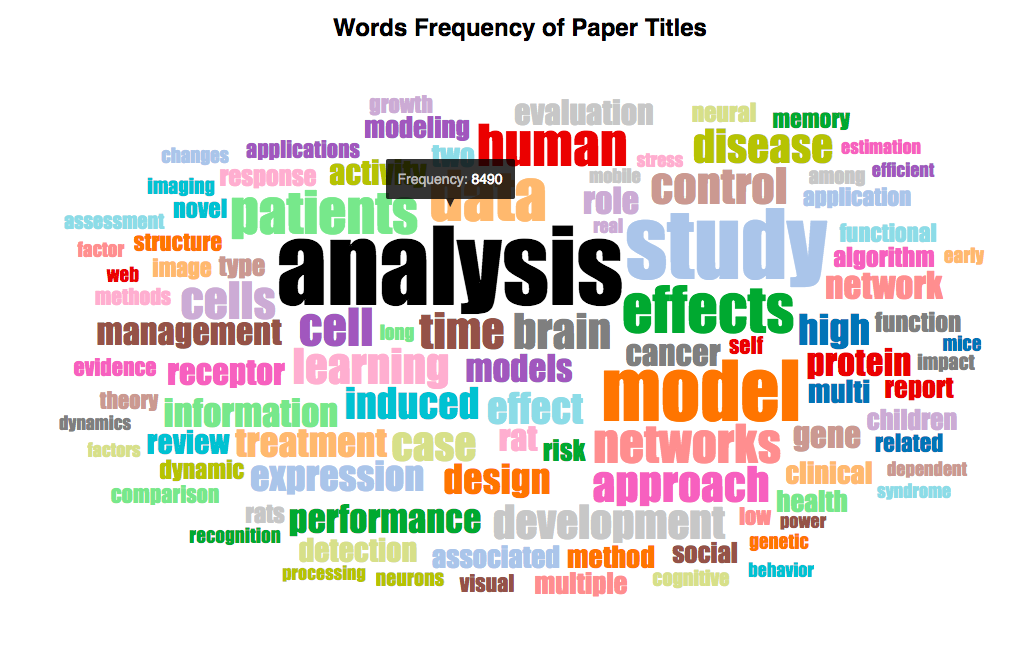
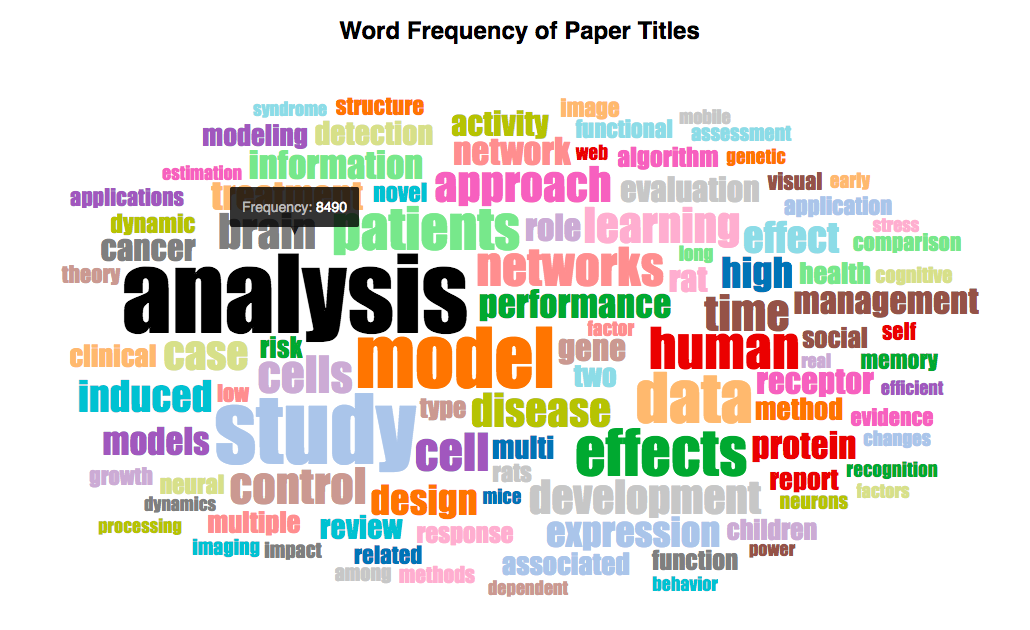
edit wordcloud

diff --git a/5-wordcloud.html b/5-wordcloud.html
@@ -1,7 +1,7 @@
 <html>
   <head>
     <meta charset="utf-8">
-    <title>Words Frequency of Paper Titles</title>
+    <title>Word Frequency of Paper Titles</title>
     <style>
       body {
         font-family: Helvetica;
@@ -49,7 +49,7 @@
     </style>
   </head>
   <body>
-    <div id="charttitle"><h2>Words Frequency of Paper Titles</h2></div>
+    <div id="charttitle"><h2>Word Frequency of Paper Titles</h2></div>
     <div id="cloud"></div>
     <script src="js/d3.v3.min.js"></script>
     <script src="js/d3.tip.js"></script>
